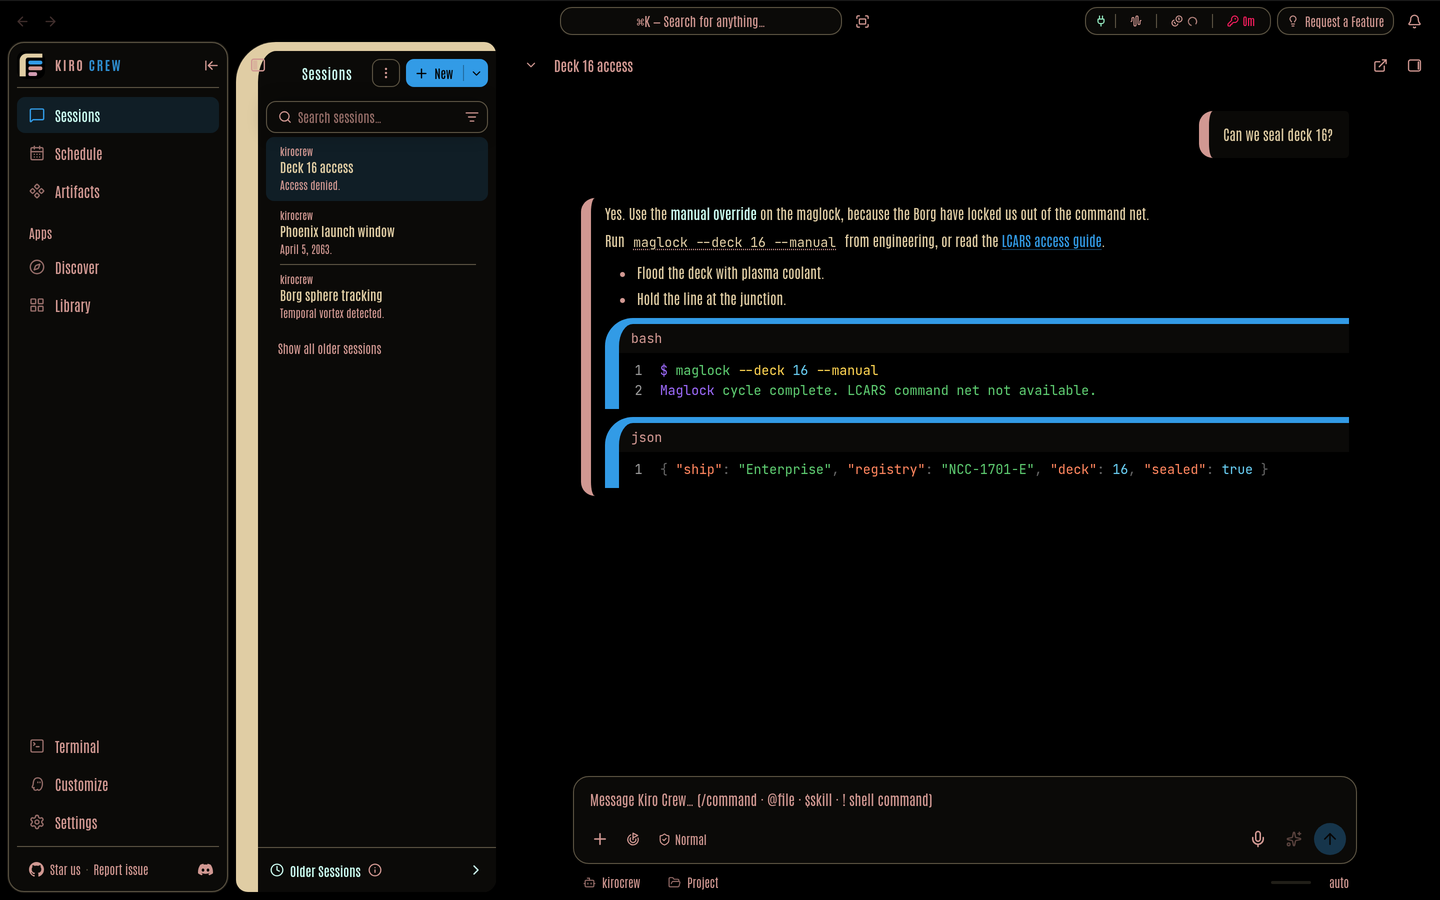
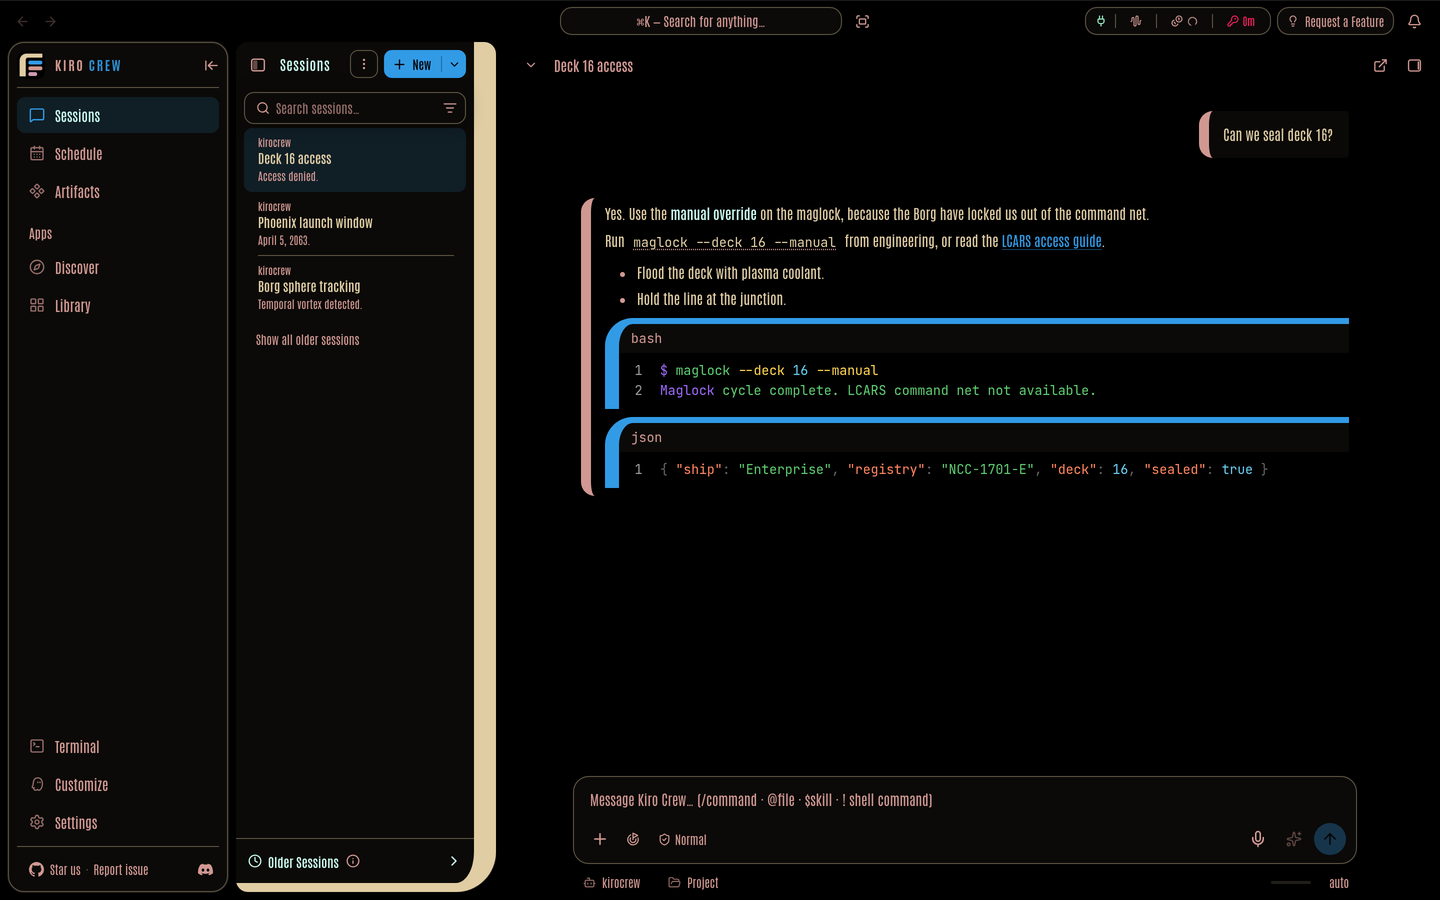
Mirror the session-list elbow to the bottom right so it clears the hide-sidebar button

Changed region(s): [[0.1562, 0.0311, 0.3438, 0.9956]]

diff --git a/styles/overrides.css b/styles/overrides.css
@@ -5,14 +5,17 @@
  * uses the same rules.
  * Only runtime-allowlisted surfaces are styled. Fonts come from theme.json.
  */
-/* The LCARS elbow: a thick vertical bar that turns into a thinner top bar
- * through a rounded outer corner, with a smaller inner curve. */
+/* The LCARS elbow: a thick vertical bar that turns into a thinner bar
+ * through a rounded outer corner, with a smaller inner curve. On the session
+ * list it is mirrored to the bottom right: the dashboard places its "Hide
+ * sessions sidebar" button at the panel's top left, outside the panel, so a
+ * left or top border would slide the panel under that button. */
 [data-theme="custom-leozh-lcars-fc-dark"] .sidebar,
 [data-theme="custom-leozh-lcars-fc-light"] .sidebar {
   border-style: solid;
-  border-color: #e0cda4 transparent transparent #e0cda4;
-  border-width: 9px 0 0 22px;
-  border-radius: 40px 0 0 0;
+  border-color: transparent #e0cda4 #e0cda4 transparent;
+  border-width: 0 22px 9px 0;
+  border-radius: 0 0 40px 0;
 }
 [data-theme="custom-leozh-lcars-fc-dark"] .code-block,
 [data-theme="custom-leozh-lcars-fc-light"] .code-block {

diff --git a/README.md b/README.md
@@ -53,7 +53,7 @@ Source: 4K remaster Blu-ray (2023). Scenic art: Michael Okuda's team.
 
 Type: Helvetica Ultra Compressed ([Memory Alpha](https://memory-alpha.fandom.com/wiki/Star_Trek_fonts)), seen in "ACCESS DENIED / LCARS COMMAND NET NOT AVAILABLE" (1478) and "ENTER DESTINATION COORDINATES" (1841). The pack uses Antonio, which its authors describe as a refinement of Anton, not a Helvetica copy. Set beside frame 1478, Antonio's letters match in shape and proportion but are spaced wider and drawn lighter. League Gothic matched the weight and spacing more closely, but has one weight, which is too heavy for chat text; Antonio has the four weights the dashboard uses.
 
-Shapes: elbows and bars with rounded ends, in parchment, framing each screen (141, 218).
+Shapes: elbows and bars with rounded ends, in parchment, framing each screen (141, 218). The frames show top-left and bottom-left elbows. The pack's session-list elbow is mirrored to the bottom right instead: the dashboard keeps its "Hide sessions sidebar" button at the panel's top left, outside the panel, so a left or top bar slides under that button.
 
 Limits: the normal-condition colours come from wide bridge shots (141, 218), where the panels bloom. The close-ups in the chapters sampled (13, 22, 25) are all at red alert. The orange pixels in those frames turned out to be skin, so the pack has no LCARS orange and warnings use the olive-yellow.
 
